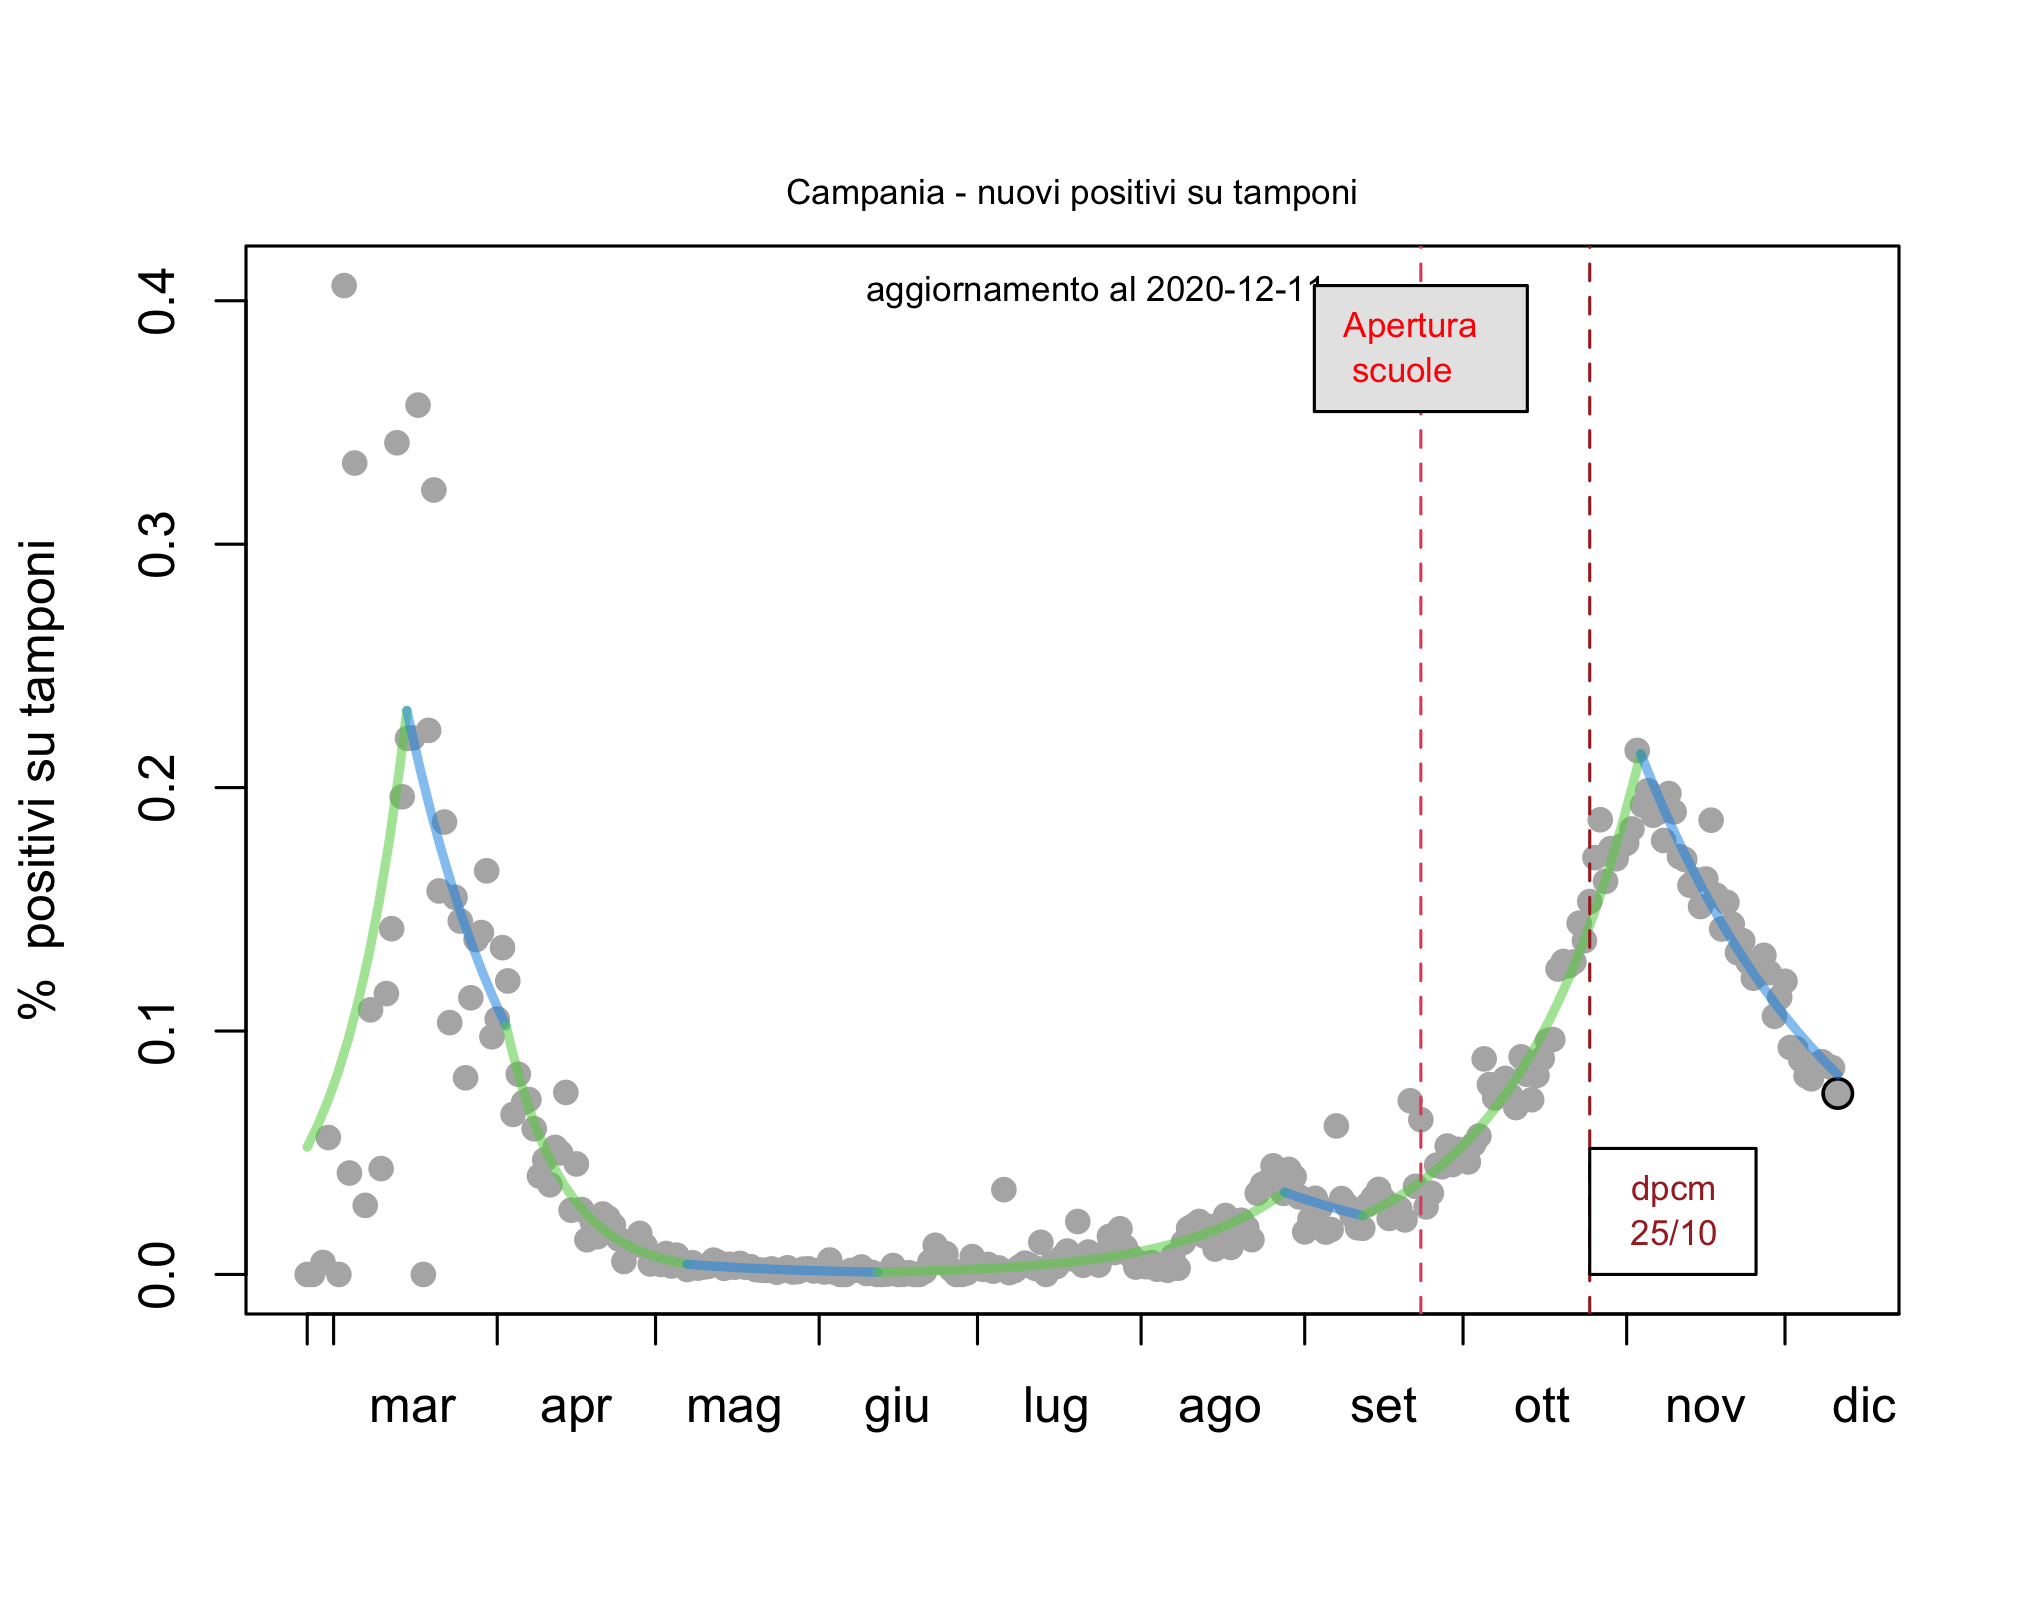
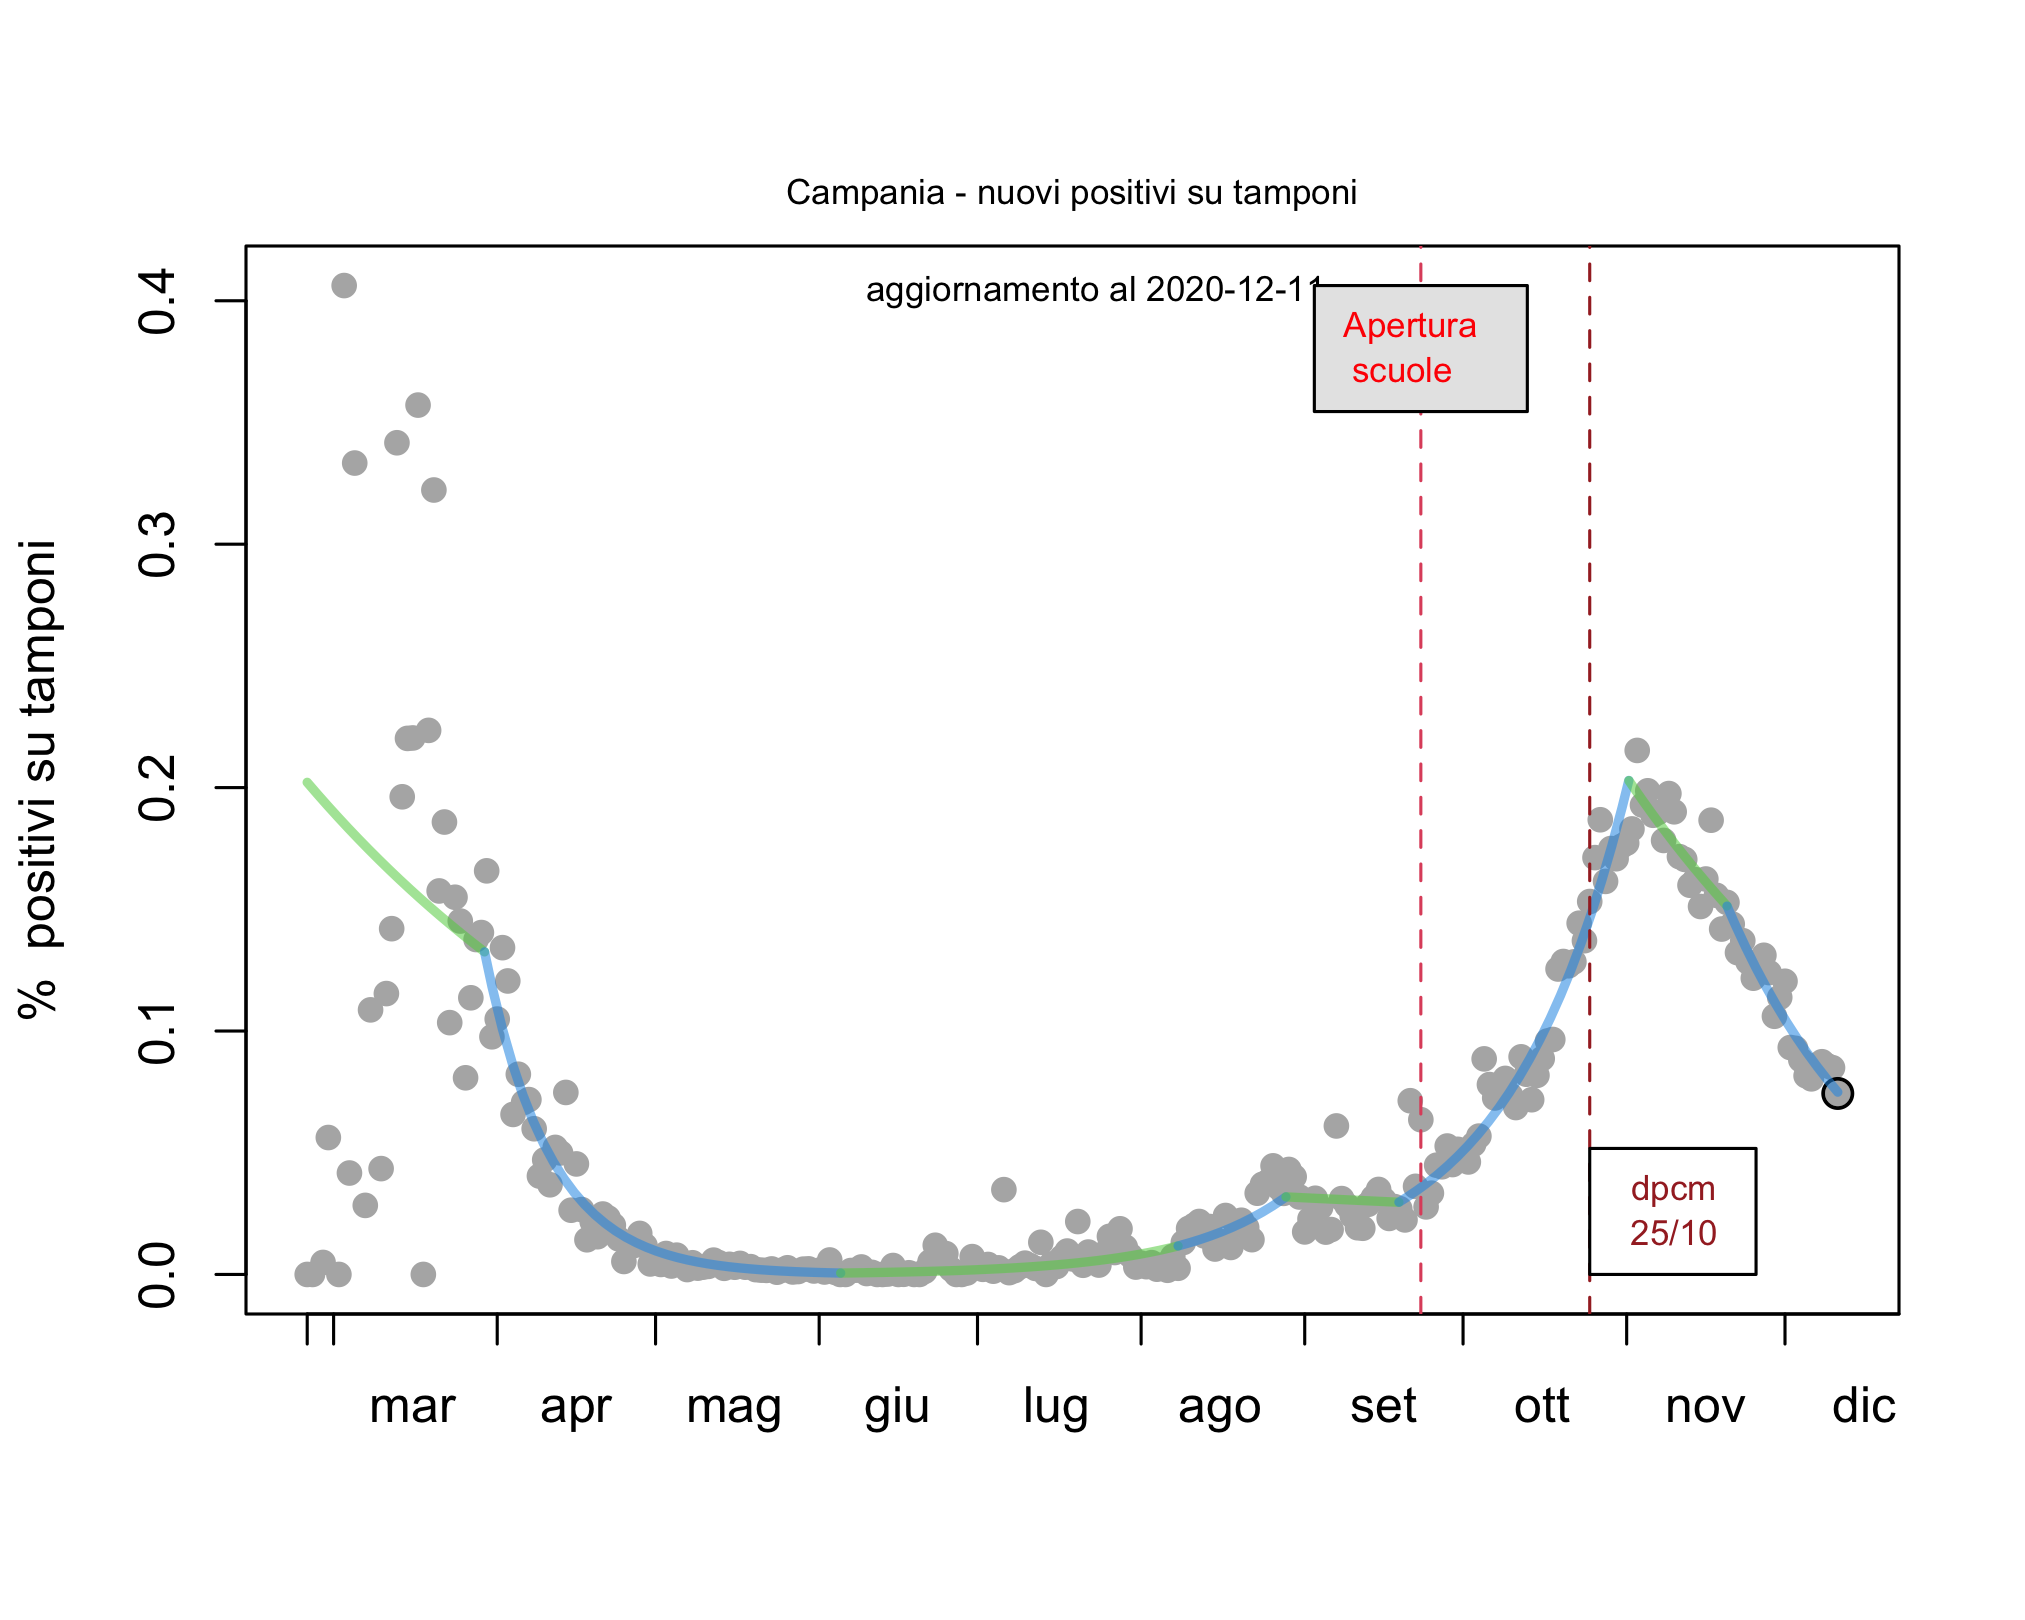
Add files via upload

diff --git a/Campania_terapie_intensive.html b/Campania_terapie_intensive.html
@@ -9,16 +9,15 @@
       <tr><th colspan="5" style="background-color:#11b6c2">Terapie intensive</th></tr>
       <tr><th rowspan="2" style="background-color:#11b6c2">Periodo</th><th colspan="2">Tasso % di crescita</th><th colspan="2" style="width: 35%; background-color:#11c25b" >Giorni di raddoppio (+) o dimezzamento (-)</th></tr>
       <tr><th>Stima</th><th>IC (95%)</th><th style="background-color:#11c25b">Stima</th><th style="background-color:#11c25b">IC (95%)</th></tr>
-<tr><td style="border-right: 4px solid #f0f0f0">dal 25/02 al 07/03*</td><td align='center'>891580000000000000,0</td><td align='center'>[-100,0; Inf]</td><td align='center' style="border-left: 4px solid #f0f0f0">0,02</td><td align='center'>[0,0; 0,0]</td></tr>
-<tr><td style="border-right: 4px solid #f0f0f0">dal 07/03* al 24/03*</td><td align='center'>24,6</td><td align='center'>[22,6; 26,6]</td><td align='center' style="border-left: 4px solid #f0f0f0">3,15</td><td align='center'>[2,9; 3,4]</td></tr>
-<tr><td style="border-right: 4px solid #f0f0f0">dal 24/03* al 14/04*</td><td align='center'>-2,6</td><td align='center'>[-3,0; -2,2]</td><td align='center' style="border-left: 4px solid #f0f0f0">-26,42</td><td align='center'>[-31,6; -22,7]</td></tr>
-<tr><td style="border-right: 4px solid #f0f0f0">dal 14/04* al 18/06*</td><td align='center'>-5,4</td><td align='center'>[-5,7; -5,1]</td><td align='center' style="border-left: 4px solid #f0f0f0">-12,56</td><td align='center'>[-13,3; -11,9]</td></tr>
-<tr><td style="border-right: 4px solid #f0f0f0">dal 18/06* al 30/06*</td><td align='center'>-37,0</td><td align='center'>[-46,1; -26,3]</td><td align='center' style="border-left: 4px solid #f0f0f0">-1,50</td><td align='center'>[-2,3; -1,1]</td></tr>
-<tr><td style="border-right: 4px solid #f0f0f0">dal 30/06* al 27/07*</td><td align='center'>23,3</td><td align='center'>[15,2; 32,0]</td><td align='center' style="border-left: 4px solid #f0f0f0">3,31</td><td align='center'>[2,5; 4,9]</td></tr>
-<tr><td style="border-right: 4px solid #f0f0f0">dal 27/07* al 16/08*</td><td align='center'>-7,1</td><td align='center'>[-9,8; -4,4]</td><td align='center' style="border-left: 4px solid #f0f0f0">-9,39</td><td align='center'>[-15,4; -6,8]</td></tr>
-<tr><td style="border-right: 4px solid #f0f0f0">dal 16/08* al 13/09*</td><td align='center'>10,7</td><td align='center'>[9,1; 12,3]</td><td align='center' style="border-left: 4px solid #f0f0f0">6,81</td><td align='center'>[6,0; 8,0]</td></tr>
-<tr><td style="border-right: 4px solid #f0f0f0">dal 13/09* al 25/10*</td><td align='center'>4,7</td><td align='center'>[4,3; 5,0]</td><td align='center' style="border-left: 4px solid #f0f0f0">15,09</td><td align='center'>[14,1; 16,3]</td></tr>
-<tr><td style="border-right: 4px solid #f0f0f0">dal 25/10* al 28/10*</td><td align='center'>15,7</td><td align='center'>[11,8; 19,7]</td><td align='center' style="border-left: 4px solid #f0f0f0">4,75</td><td align='center'>[3,9; 6,2]</td></tr>
-<tr><td style="border-right: 4px solid #f0f0f0">dal 28/10* al 23/11*</td><td align='center'>0,8</td><td align='center'>[0,5; 1,2]</td><td align='center' style="border-left: 4px solid #f0f0f0">85,22</td><td align='center'>[58,8; 154,6]</td></tr>
-<tr><td style="border-right: 4px solid #f0f0f0">dal 23/11* al 11/12</td><td align='center'>-2,3</td><td align='center'>[-3,0; -1,6]</td><td align='center' style="border-left: 4px solid #f0f0f0">-30,15</td><td align='center'>[-43,2; -23,2]</td></tr>
+<tr><td style="border-right: 4px solid #f0f0f0">dal 25/02 al 24/03*</td><td align='center'>26,6</td><td align='center'>[24,7; 28,5]</td><td align='center' style="border-left: 4px solid #f0f0f0">2,9</td><td align='center'>[2,8; 3,1]</td></tr>
+<tr><td style="border-right: 4px solid #f0f0f0">dal 24/03* al 14/04*</td><td align='center'>-2,7</td><td align='center'>[-3,1; -2,3]</td><td align='center' style="border-left: 4px solid #f0f0f0">-25,3</td><td align='center'>[-30,0; -21,9]</td></tr>
+<tr><td style="border-right: 4px solid #f0f0f0">dal 14/04* al 18/06*</td><td align='center'>-5,3</td><td align='center'>[-5,6; -5,1]</td><td align='center' style="border-left: 4px solid #f0f0f0">-12,6</td><td align='center'>[-13,4; -11,9]</td></tr>
+<tr><td style="border-right: 4px solid #f0f0f0">dal 18/06* al 30/06*</td><td align='center'>-37,0</td><td align='center'>[-46,1; -26,3]</td><td align='center' style="border-left: 4px solid #f0f0f0">-1,5</td><td align='center'>[-2,3; -1,1]</td></tr>
+<tr><td style="border-right: 4px solid #f0f0f0">dal 30/06* al 27/07*</td><td align='center'>23,3</td><td align='center'>[15,2; 32,0]</td><td align='center' style="border-left: 4px solid #f0f0f0">3,3</td><td align='center'>[2,5; 4,9]</td></tr>
+<tr><td style="border-right: 4px solid #f0f0f0">dal 27/07* al 16/08*</td><td align='center'>-7,1</td><td align='center'>[-9,8; -4,4]</td><td align='center' style="border-left: 4px solid #f0f0f0">-9,4</td><td align='center'>[-15,4; -6,8]</td></tr>
+<tr><td style="border-right: 4px solid #f0f0f0">dal 16/08* al 13/09*</td><td align='center'>10,7</td><td align='center'>[9,1; 12,3]</td><td align='center' style="border-left: 4px solid #f0f0f0">6,8</td><td align='center'>[6,0; 8,0]</td></tr>
+<tr><td style="border-right: 4px solid #f0f0f0">dal 13/09* al 25/10*</td><td align='center'>4,7</td><td align='center'>[4,3; 5,0]</td><td align='center' style="border-left: 4px solid #f0f0f0">15,1</td><td align='center'>[14,1; 16,3]</td></tr>
+<tr><td style="border-right: 4px solid #f0f0f0">dal 25/10* al 28/10*</td><td align='center'>15,7</td><td align='center'>[11,8; 19,8]</td><td align='center' style="border-left: 4px solid #f0f0f0">4,8</td><td align='center'>[3,9; 6,2]</td></tr>
+<tr><td style="border-right: 4px solid #f0f0f0">dal 28/10* al 23/11*</td><td align='center'>0,8</td><td align='center'>[0,5; 1,2]</td><td align='center' style="border-left: 4px solid #f0f0f0">85,3</td><td align='center'>[58,9; 154,9]</td></tr>
+<tr><td style="border-right: 4px solid #f0f0f0">dal 23/11* al 11/12</td><td align='center'>-2,3</td><td align='center'>[-3,0; -1,6]</td><td align='center' style="border-left: 4px solid #f0f0f0">-30,1</td><td align='center'>[-43,1; -23,1]</td></tr>
 </table></body></html>

diff --git a/Campania_nuovi_casi_su_tamponi.html b/Campania_nuovi_casi_su_tamponi.html
@@ -9,12 +9,12 @@
       <tr><th colspan="5" style="background-color:#11b6c2">Nuovi Positivi su Tamponi</th></tr>
       <tr><th rowspan="2" style="background-color:#11b6c2">Periodo</th><th colspan="2">Tasso % di crescita</th><th colspan="2" style="background-color:#11c25b">Rt aggiustato</th></tr>
       <tr><th>Stima</th><th>IC (95%)</th><th style="background-color:#11c25b">Stima</th><th style="background-color:#11c25b">IC (95%)</th></tr>
-<tr><td style="border-right: 4px solid #f0f0f0">dal 25/02 al 14/03*</td><td align='center'>8,2</td><td align='center'>[6,0; 10,4]</td><td align='center' style="border-left: 4px solid #f0f0f0">1,40</td><td align='center'>[1,29; 1,52]</td></tr>
-<tr><td style="border-right: 4px solid #f0f0f0">dal 14/03* al 02/04*</td><td align='center'>-4,3</td><td align='center'>[-4,8; -3,7]</td><td align='center' style="border-left: 4px solid #f0f0f0">0,80</td><td align='center'>[0,77; 0,82]</td></tr>
-<tr><td style="border-right: 4px solid #f0f0f0">dal 02/04* al 07/05*</td><td align='center'>-8,9</td><td align='center'>[-9,2; -8,6]</td><td align='center' style="border-left: 4px solid #f0f0f0">0,58</td><td align='center'>[0,56; 0,59]</td></tr>
-<tr><td style="border-right: 4px solid #f0f0f0">dal 07/05* al 12/06*</td><td align='center'>-4,1</td><td align='center'>[-4,6; -3,6]</td><td align='center' style="border-left: 4px solid #f0f0f0">0,81</td><td align='center'>[0,78; 0,83]</td></tr>
-<tr><td style="border-right: 4px solid #f0f0f0">dal 12/06* al 28/08*</td><td align='center'>4,8</td><td align='center'>[4,5; 5,0]</td><td align='center' style="border-left: 4px solid #f0f0f0">1,23</td><td align='center'>[1,22; 1,24]</td></tr>
-<tr><td style="border-right: 4px solid #f0f0f0">dal 28/08* al 12/09*</td><td align='center'>-2,2</td><td align='center'>[-2,6; -1,9]</td><td align='center' style="border-left: 4px solid #f0f0f0">0,89</td><td align='center'>[0,88; 0,91]</td></tr>
-<tr><td style="border-right: 4px solid #f0f0f0">dal 12/09* al 03/11*</td><td align='center'>4,2</td><td align='center'>[4,2; 4,3]</td><td align='center' style="border-left: 4px solid #f0f0f0">1,21</td><td align='center'>[1,20; 1,21]</td></tr>
-<tr><td style="border-right: 4px solid #f0f0f0">dal 03/11* al 11/12</td><td align='center'>-2,5</td><td align='center'>[-2,6; -2,5]</td><td align='center' style="border-left: 4px solid #f0f0f0">0,85</td><td align='center'>[0,85; 0,86]</td></tr>
+<tr><td style="border-right: 4px solid #f0f0f0">dal 25/02 al 29/03*</td><td align='center'>-1,2</td><td align='center'>[-1,7; -0,76]</td><td align='center' style="border-left: 4px solid #f0f0f0">0,94</td><td align='center'>[0,92; 0,96]</td></tr>
+<tr><td style="border-right: 4px solid #f0f0f0">dal 29/03* al 05/06*</td><td align='center'>-7,8</td><td align='center'>[-7,9; -7,56]</td><td align='center' style="border-left: 4px solid #f0f0f0">0,63</td><td align='center'>[0,62; 0,64]</td></tr>
+<tr><td style="border-right: 4px solid #f0f0f0">dal 05/06* al 08/08*</td><td align='center'>4,8</td><td align='center'>[4,6; 5,10]</td><td align='center' style="border-left: 4px solid #f0f0f0">1,24</td><td align='center'>[1,22; 1,25]</td></tr>
+<tr><td style="border-right: 4px solid #f0f0f0">dal 08/08* al 28/08*</td><td align='center'>5,0</td><td align='center'>[4,4; 5,61]</td><td align='center' style="border-left: 4px solid #f0f0f0">1,24</td><td align='center'>[1,22; 1,27]</td></tr>
+<tr><td style="border-right: 4px solid #f0f0f0">dal 28/08* al 18/09*</td><td align='center'>-0,3</td><td align='center'>[-0,6; -0,07]</td><td align='center' style="border-left: 4px solid #f0f0f0">0,98</td><td align='center'>[0,97; 1,00]</td></tr>
+<tr><td style="border-right: 4px solid #f0f0f0">dal 18/09* al 01/11*</td><td align='center'>4,5</td><td align='center'>[4,4; 4,59]</td><td align='center' style="border-left: 4px solid #f0f0f0">1,22</td><td align='center'>[1,22; 1,22]</td></tr>
+<tr><td style="border-right: 4px solid #f0f0f0">dal 01/11* al 20/11*</td><td align='center'>-1,6</td><td align='center'>[-1,7; -1,46]</td><td align='center' style="border-left: 4px solid #f0f0f0">0,91</td><td align='center'>[0,90; 0,91]</td></tr>
+<tr><td style="border-right: 4px solid #f0f0f0">dal 20/11* al 11/12</td><td align='center'>-3,3</td><td align='center'>[-3,5; -3,14]</td><td align='center' style="border-left: 4px solid #f0f0f0">0,81</td><td align='center'>[0,80; 0,82]</td></tr>
 </table></body></html>
